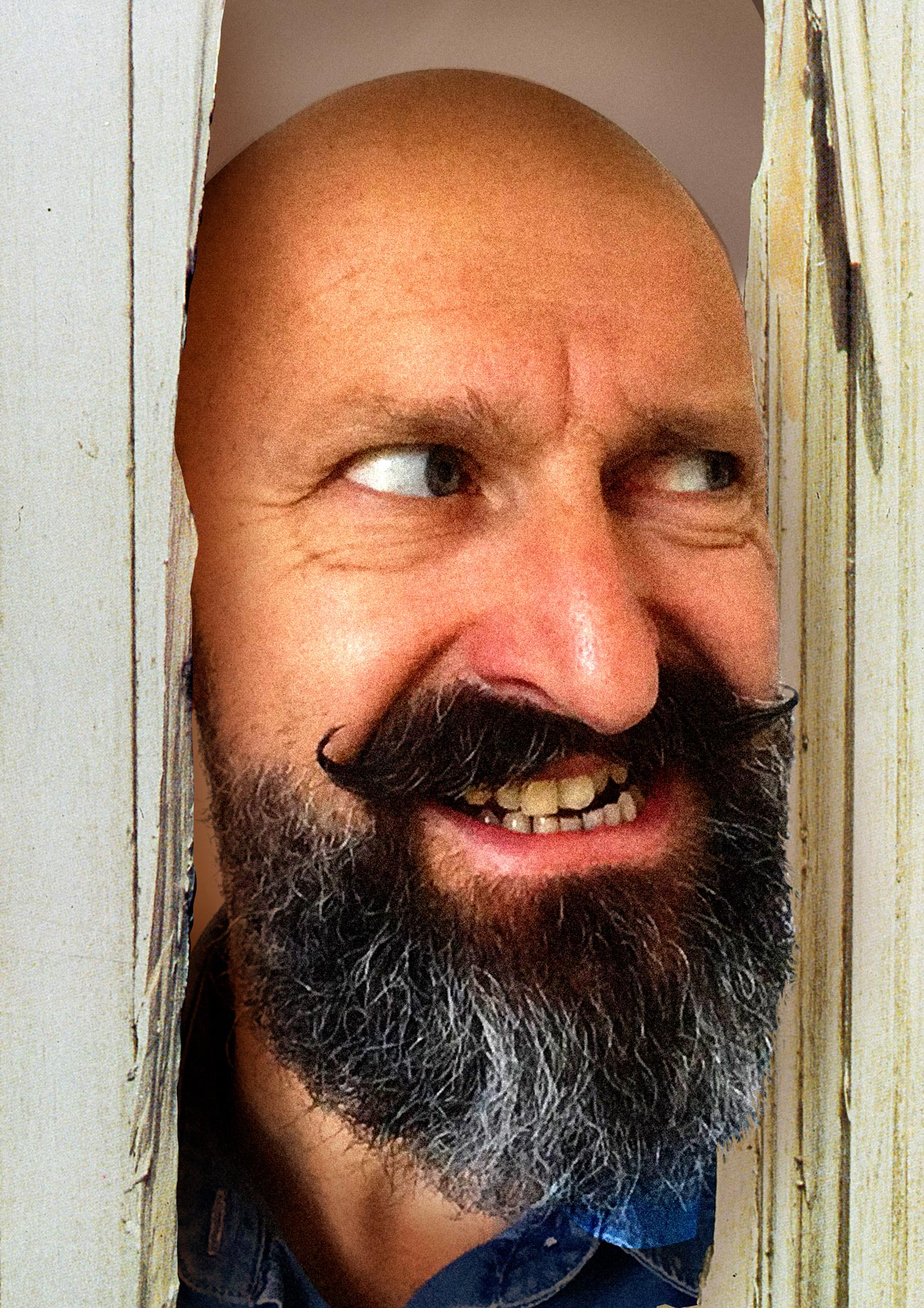
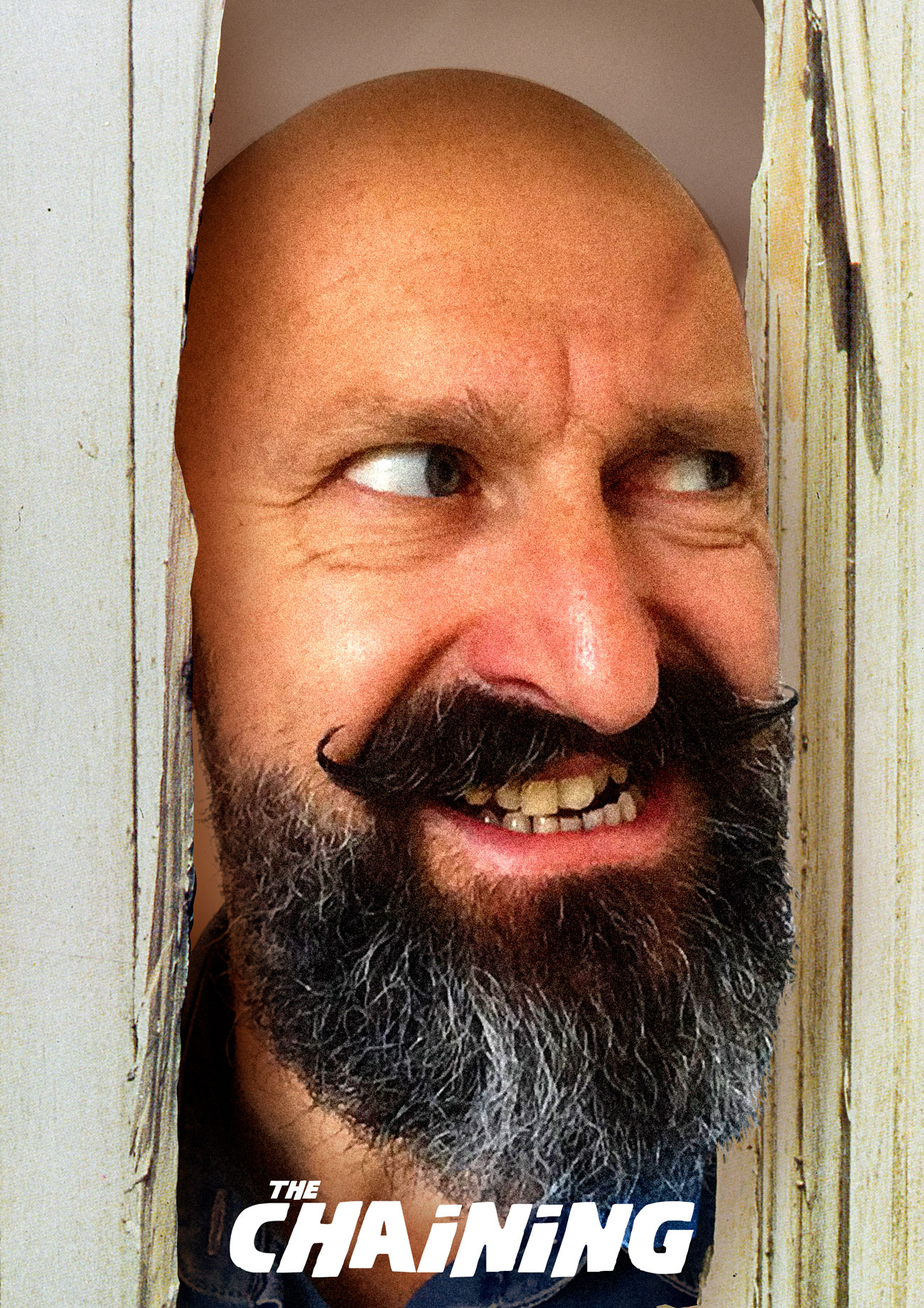
maj du nom de la team et close des images au clic

Changed region(s): [[0.2462, 0.093, 0.8308, 1.0], [0.8615, 0.186, 0.8923, 0.217]]

diff --git a/assets/build/js/main.js b/assets/build/js/main.js
@@ -94,7 +94,7 @@
 /***/ (function(module, __webpack_exports__, __webpack_require__) {
 
 "use strict";
-eval("__webpack_require__.r(__webpack_exports__);\n/* harmony import */ var core_js_modules_es_array_concat_js__WEBPACK_IMPORTED_MODULE_0__ = __webpack_require__(/*! core-js/modules/es.array.concat.js */ \"../core-js/modules/es.array.concat.js\");\n/* harmony import */ var core_js_modules_es_array_concat_js__WEBPACK_IMPORTED_MODULE_0___default = /*#__PURE__*/__webpack_require__.n(core_js_modules_es_array_concat_js__WEBPACK_IMPORTED_MODULE_0__);\n/* harmony import */ var core_js_modules_es_array_splice_js__WEBPACK_IMPORTED_MODULE_1__ = __webpack_require__(/*! core-js/modules/es.array.splice.js */ \"../core-js/modules/es.array.splice.js\");\n/* harmony import */ var core_js_modules_es_array_splice_js__WEBPACK_IMPORTED_MODULE_1___default = /*#__PURE__*/__webpack_require__.n(core_js_modules_es_array_splice_js__WEBPACK_IMPORTED_MODULE_1__);\n/* harmony import */ var core_js_modules_web_timers_js__WEBPACK_IMPORTED_MODULE_2__ = __webpack_require__(/*! core-js/modules/web.timers.js */ \"../core-js/modules/web.timers.js\");\n/* harmony import */ var core_js_modules_web_timers_js__WEBPACK_IMPORTED_MODULE_2___default = /*#__PURE__*/__webpack_require__.n(core_js_modules_web_timers_js__WEBPACK_IMPORTED_MODULE_2__);\n/* harmony import */ var _main_Player__WEBPACK_IMPORTED_MODULE_3__ = __webpack_require__(/*! ./main/Player */ \"../../src/javascript/src/main/Player.js\");\n\n\n\n\nvar playerContainer = document.getElementById('player');\nvar player = new _main_Player__WEBPACK_IMPORTED_MODULE_3__[\"Player\"](playerContainer);\nvar axe = document.getElementById('axe');\nvar content = document.querySelector('.Content');\nvar hoverAxe = false;\nvar btnAction = document.getElementById('trigger');\ndocument.addEventListener('pointermove', function (ev) {\n  var axeCoords = axe.getBoundingClientRect();\n\n  if (ev.clientX > axeCoords.left && ev.clientX < axeCoords.right && ev.clientY > axeCoords.top && ev.clientY < axeCoords.bottom) {\n    if (!hoverAxe) {\n      hoverAxe = true; //player.playVideo()\n    }\n  } else {\n    hoverAxe = false;\n  }\n});\ndocument.body.addEventListener('click', function () {\n  player.video.muted = false;\n});\nvar images = ['eric', 'matthieu', 'jack', 'overlook'];\nvar availableImages = [].concat(images);\nvar currentImage = null;\nbtnAction.addEventListener('click', function (ev) {\n  ev.preventDefault();\n  content.style.visibility = 'hidden';\n\n  if (currentImage) {\n    currentImage.classList.remove('visible');\n  }\n\n  currentImage = null;\n  var index = Math.min(availableImages.length - 1, Math.floor(Math.random() * availableImages.length)),\n      key = availableImages[index];\n  availableImages.splice(index, 1);\n\n  if (availableImages.length === 0) {\n    availableImages = [].concat(images);\n  }\n\n  if (key === 'jack') {\n    player.video.addEventListener('pause', function (ev) {\n      content.style.visibility = null;\n    });\n    player.playVideo();\n  } else {\n    currentImage = document.getElementById(key);\n    currentImage.classList.add('visible');\n    setTimeout(function () {\n      if (currentImage) {\n        currentImage.classList.remove('visible');\n      }\n\n      content.style.visibility = null;\n    }, 3000);\n  }\n});\n\n//# sourceURL=webpack:////Users/mrebillard/Sites/wr-shining/assets/src/javascript/src/main.js?");
+eval("__webpack_require__.r(__webpack_exports__);\n/* harmony import */ var core_js_modules_es_array_concat_js__WEBPACK_IMPORTED_MODULE_0__ = __webpack_require__(/*! core-js/modules/es.array.concat.js */ \"../core-js/modules/es.array.concat.js\");\n/* harmony import */ var core_js_modules_es_array_concat_js__WEBPACK_IMPORTED_MODULE_0___default = /*#__PURE__*/__webpack_require__.n(core_js_modules_es_array_concat_js__WEBPACK_IMPORTED_MODULE_0__);\n/* harmony import */ var core_js_modules_es_array_splice_js__WEBPACK_IMPORTED_MODULE_1__ = __webpack_require__(/*! core-js/modules/es.array.splice.js */ \"../core-js/modules/es.array.splice.js\");\n/* harmony import */ var core_js_modules_es_array_splice_js__WEBPACK_IMPORTED_MODULE_1___default = /*#__PURE__*/__webpack_require__.n(core_js_modules_es_array_splice_js__WEBPACK_IMPORTED_MODULE_1__);\n/* harmony import */ var _main_Player__WEBPACK_IMPORTED_MODULE_2__ = __webpack_require__(/*! ./main/Player */ \"../../src/javascript/src/main/Player.js\");\n\n\n\nvar playerContainer = document.getElementById('player');\nvar player = new _main_Player__WEBPACK_IMPORTED_MODULE_2__[\"Player\"](playerContainer);\nvar axe = document.getElementById('axe');\nvar content = document.querySelector('.Content');\nvar hoverAxe = false;\nvar btnAction = document.getElementById('trigger');\ndocument.addEventListener('pointermove', function (ev) {\n  var axeCoords = axe.getBoundingClientRect();\n\n  if (ev.clientX > axeCoords.left && ev.clientX < axeCoords.right && ev.clientY > axeCoords.top && ev.clientY < axeCoords.bottom) {\n    if (!hoverAxe) {\n      hoverAxe = true; //player.playVideo()\n    }\n  } else {\n    hoverAxe = false;\n  }\n});\ndocument.body.addEventListener('click', function () {\n  player.video.muted = false;\n});\nvar images = ['eric', 'matthieu', 'jack', 'overlook'];\nvar availableImages = [].concat(images);\nvar currentImage = null;\nbtnAction.addEventListener('click', function (ev) {\n  ev.preventDefault();\n  content.style.visibility = 'hidden';\n\n  if (currentImage) {\n    currentImage.classList.remove('visible');\n  }\n\n  currentImage = null;\n  var index = Math.min(availableImages.length - 1, Math.floor(Math.random() * availableImages.length)),\n      key = availableImages[index];\n  availableImages.splice(index, 1);\n\n  if (availableImages.length === 0) {\n    availableImages = [].concat(images);\n  }\n\n  if (key === 'jack') {\n    player.video.addEventListener('pause', function (ev) {\n      content.style.visibility = null;\n    });\n    player.playVideo();\n  } else {\n    currentImage = document.getElementById(key);\n    currentImage.classList.add('visible');\n    currentImage.addEventListener('click', function () {\n      currentImage.classList.remove('visible');\n      content.style.visibility = null;\n    });\n  }\n});\n\n//# sourceURL=webpack:////Users/mrebillard/Sites/wr-shining/assets/src/javascript/src/main.js?");
 
 /***/ }),
 
@@ -385,17 +385,6 @@ eval("var global = __webpack_require__(/*! ../internals/global */ \"../core-js/i
 /***/ (function(module, exports) {
 
 eval("module.exports = function (exec) {\n  try {\n    return !!exec();\n  } catch (error) {\n    return true;\n  }\n};\n\n\n//# sourceURL=webpack:///../core-js/internals/fails.js?");
-
-/***/ }),
-
-/***/ "../core-js/internals/function-apply.js":
-/*!**********************************************!*\
-  !*** ../core-js/internals/function-apply.js ***!
-  \**********************************************/
-/*! no static exports found */
-/***/ (function(module, exports, __webpack_require__) {
-
-eval("var NATIVE_BIND = __webpack_require__(/*! ../internals/function-bind-native */ \"../core-js/internals/function-bind-native.js\");\n\nvar FunctionPrototype = Function.prototype;\nvar apply = FunctionPrototype.apply;\nvar call = FunctionPrototype.call;\n\n// eslint-disable-next-line es-x/no-reflect -- safe\nmodule.exports = typeof Reflect == 'object' && Reflect.apply || (NATIVE_BIND ? call.bind(apply) : function () {\n  return call.apply(apply, arguments);\n});\n\n\n//# sourceURL=webpack:///../core-js/internals/function-apply.js?");
 
 /***/ }),
 
@@ -797,17 +786,6 @@ eval("var $TypeError = TypeError;\n\n// `RequireObjectCoercible` abstract operat
 
 /***/ }),
 
-/***/ "../core-js/internals/schedulers-fix.js":
-/*!**********************************************!*\
-  !*** ../core-js/internals/schedulers-fix.js ***!
-  \**********************************************/
-/*! no static exports found */
-/***/ (function(module, exports, __webpack_require__) {
-
-eval("var global = __webpack_require__(/*! ../internals/global */ \"../core-js/internals/global.js\");\nvar apply = __webpack_require__(/*! ../internals/function-apply */ \"../core-js/internals/function-apply.js\");\nvar isCallable = __webpack_require__(/*! ../internals/is-callable */ \"../core-js/internals/is-callable.js\");\nvar userAgent = __webpack_require__(/*! ../internals/engine-user-agent */ \"../core-js/internals/engine-user-agent.js\");\nvar arraySlice = __webpack_require__(/*! ../internals/array-slice */ \"../core-js/internals/array-slice.js\");\nvar validateArgumentsLength = __webpack_require__(/*! ../internals/validate-arguments-length */ \"../core-js/internals/validate-arguments-length.js\");\n\nvar MSIE = /MSIE .\\./.test(userAgent); // <- dirty ie9- check\nvar Function = global.Function;\n\nvar wrap = function (scheduler) {\n  return MSIE ? function (handler, timeout /* , ...arguments */) {\n    var boundArgs = validateArgumentsLength(arguments.length, 1) > 2;\n    var fn = isCallable(handler) ? handler : Function(handler);\n    var args = boundArgs ? arraySlice(arguments, 2) : undefined;\n    return scheduler(boundArgs ? function () {\n      apply(fn, this, args);\n    } : fn, timeout);\n  } : scheduler;\n};\n\n// ie9- setTimeout & setInterval additional parameters fix\n// https://html.spec.whatwg.org/multipage/timers-and-user-prompts.html#timers\nmodule.exports = {\n  // `setTimeout` method\n  // https://html.spec.whatwg.org/multipage/timers-and-user-prompts.html#dom-settimeout\n  setTimeout: wrap(global.setTimeout),\n  // `setInterval` method\n  // https://html.spec.whatwg.org/multipage/timers-and-user-prompts.html#dom-setinterval\n  setInterval: wrap(global.setInterval)\n};\n\n\n//# sourceURL=webpack:///../core-js/internals/schedulers-fix.js?");
-
-/***/ }),
-
 /***/ "../core-js/internals/shared-key.js":
 /*!******************************************!*\
   !*** ../core-js/internals/shared-key.js ***!
@@ -973,17 +951,6 @@ eval("var DESCRIPTORS = __webpack_require__(/*! ../internals/descriptors */ \"..
 
 /***/ }),
 
-/***/ "../core-js/internals/validate-arguments-length.js":
-/*!*********************************************************!*\
-  !*** ../core-js/internals/validate-arguments-length.js ***!
-  \*********************************************************/
-/*! no static exports found */
-/***/ (function(module, exports) {
-
-eval("var $TypeError = TypeError;\n\nmodule.exports = function (passed, required) {\n  if (passed < required) throw $TypeError('Not enough arguments');\n  return passed;\n};\n\n\n//# sourceURL=webpack:///../core-js/internals/validate-arguments-length.js?");
-
-/***/ }),
-
 /***/ "../core-js/internals/well-known-symbol.js":
 /*!*************************************************!*\
   !*** ../core-js/internals/well-known-symbol.js ***!
@@ -1038,39 +1005,6 @@ eval("// TODO: Remove from `core-js@4`\nvar $ = __webpack_require__(/*! ../inter
 /***/ (function(module, exports, __webpack_require__) {
 
 eval("var $ = __webpack_require__(/*! ../internals/export */ \"../core-js/internals/export.js\");\nvar DESCRIPTORS = __webpack_require__(/*! ../internals/descriptors */ \"../core-js/internals/descriptors.js\");\nvar defineProperty = __webpack_require__(/*! ../internals/object-define-property */ \"../core-js/internals/object-define-property.js\").f;\n\n// `Object.defineProperty` method\n// https://tc39.es/ecma262/#sec-object.defineproperty\n// eslint-disable-next-line es-x/no-object-defineproperty -- safe\n$({ target: 'Object', stat: true, forced: Object.defineProperty !== defineProperty, sham: !DESCRIPTORS }, {\n  defineProperty: defineProperty\n});\n\n\n//# sourceURL=webpack:///../core-js/modules/es.object.define-property.js?");
-
-/***/ }),
-
-/***/ "../core-js/modules/web.set-interval.js":
-/*!**********************************************!*\
-  !*** ../core-js/modules/web.set-interval.js ***!
-  \**********************************************/
-/*! no static exports found */
-/***/ (function(module, exports, __webpack_require__) {
-
-eval("var $ = __webpack_require__(/*! ../internals/export */ \"../core-js/internals/export.js\");\nvar global = __webpack_require__(/*! ../internals/global */ \"../core-js/internals/global.js\");\nvar setInterval = __webpack_require__(/*! ../internals/schedulers-fix */ \"../core-js/internals/schedulers-fix.js\").setInterval;\n\n// ie9- setInterval additional parameters fix\n// https://html.spec.whatwg.org/multipage/timers-and-user-prompts.html#dom-setinterval\n$({ global: true, bind: true, forced: global.setInterval !== setInterval }, {\n  setInterval: setInterval\n});\n\n\n//# sourceURL=webpack:///../core-js/modules/web.set-interval.js?");
-
-/***/ }),
-
-/***/ "../core-js/modules/web.set-timeout.js":
-/*!*********************************************!*\
-  !*** ../core-js/modules/web.set-timeout.js ***!
-  \*********************************************/
-/*! no static exports found */
-/***/ (function(module, exports, __webpack_require__) {
-
-eval("var $ = __webpack_require__(/*! ../internals/export */ \"../core-js/internals/export.js\");\nvar global = __webpack_require__(/*! ../internals/global */ \"../core-js/internals/global.js\");\nvar setTimeout = __webpack_require__(/*! ../internals/schedulers-fix */ \"../core-js/internals/schedulers-fix.js\").setTimeout;\n\n// ie9- setTimeout additional parameters fix\n// https://html.spec.whatwg.org/multipage/timers-and-user-prompts.html#dom-settimeout\n$({ global: true, bind: true, forced: global.setTimeout !== setTimeout }, {\n  setTimeout: setTimeout\n});\n\n\n//# sourceURL=webpack:///../core-js/modules/web.set-timeout.js?");
-
-/***/ }),
-
-/***/ "../core-js/modules/web.timers.js":
-/*!****************************************!*\
-  !*** ../core-js/modules/web.timers.js ***!
-  \****************************************/
-/*! no static exports found */
-/***/ (function(module, exports, __webpack_require__) {
-
-eval("// TODO: Remove this module from `core-js@4` since it's split to modules listed below\n__webpack_require__(/*! ../modules/web.set-interval */ \"../core-js/modules/web.set-interval.js\");\n__webpack_require__(/*! ../modules/web.set-timeout */ \"../core-js/modules/web.set-timeout.js\");\n\n\n//# sourceURL=webpack:///../core-js/modules/web.timers.js?");
 
 /***/ }),
 

diff --git a/index.html b/index.html
@@ -5,9 +5,9 @@
     <meta name="viewport"
           content="width=device-width, user-scalable=no, initial-scale=1.0, maximum-scale=1.0, minimum-scale=1.0">
     <meta http-equiv="X-UA-Compatible" content="ie=edge">
-    <title>The Shining Ax</title>
+    <title>The Chaining</title>
     <link rel="shortcut icon" type="image/x-icon" href="favicon.ico">
-    <link rel="stylesheet" href="./assets/build/css/screen.css?v=3">
+    <link rel="stylesheet" href="./assets/build/css/screen.css?v=4">
 </head>
 <body>
 <div class="Wrapper">
@@ -16,16 +16,18 @@
     </div>
     <div class="Wrapper-pattern"></div>
     <div class="Player">
-        <img class="full-image" id="eric" src="./assets/build/img/commons/door-eric.jpg" alt="">
-        <img class="full-image" id="matthieu" src="./assets/build/img/commons/door-matthieu.jpg" alt="">
-        <img class="full-image" id="overlook" src="./assets/build/img/commons/overlook.jpg" alt="">
+        <img class="full-image" id="eric" src="./assets/build/img/commons/door-eric.jpg?v=4" alt="">
+        <img class="full-image" id="matthieu" src="./assets/build/img/commons/door-matthieu.jpg?v=4" alt="">
+        <img class="full-image" id="overlook" src="./assets/build/img/commons/overlook.jpg?v=4" alt="">
         <video muted id="player" data-yt2html5="https://www.youtube.com/watch?v=fLEdpDpoTTA"></video>
     </div>
     <div class="Content">
-        <h1 class="Content-name"><span>The</span> Shining Ax</h1>
+        <h1 class="Content-name">
+            <img src="./assets/build/img/commons/chaining-title.png" alt="">
+        </h1>
         <button class="Content-trigger" id="trigger">Qui sera le vainqueur ?</button>
     </div>
 </div>
-<script src="./assets/build/js/main.js?v=3"></script>
+<script src="./assets/build/js/main.js?v=4"></script>
 </body>
 </html>

diff --git a/assets/src/scss/screen.scss b/assets/src/scss/screen.scss
@@ -74,25 +74,29 @@ $color-orange: #e25716;
     align-items: center;
 
     &-name {
+        position: relative;
+        z-index: 1;
+
         text-align: center;
         font-size: 8vw;
 
         animation: vibes 7s steps(1) infinite;
 
-        span {
-            font-size: 6vw;
+        img {
             display: block;
-            margin-bottom: 0.3em;
+            max-width: 70vw;
         }
     }
 
     &-trigger {
+        position: relative;
+        z-index: 2;
         appearance: none;
         background-color: $color-orange;
         border: 10px solid $color-red;
-        font-size: 3vw;
+        font-size: clamp(0px, 3vw, 30px);
         font-family: 'Nosifer', cursive;
-        padding: 20px;
+        padding: 1em;
         margin-top: 50px;
         cursor: pointer;
 
@@ -133,6 +137,8 @@ $video-ratio: calc((360% / 640) * 100);
         height: 100%;
         object-fit: contain;
         visibility: hidden;
+        pointer-events: all;
+        cursor: zoom-out;
 
         &.visible {
             visibility: visible;

diff --git a/assets/build/css/screen.css b/assets/build/css/screen.css
@@ -156,25 +156,28 @@ body {
           align-items: center;
 }
 .Content-name {
+  position: relative;
+  z-index: 1;
   text-align: center;
   font-size: 8vw;
   -webkit-animation: vibes 7s steps(1) infinite;
           animation: vibes 7s steps(1) infinite;
 }
-.Content-name span {
-  font-size: 6vw;
+.Content-name img {
   display: block;
-  margin-bottom: 0.3em;
+  max-width: 70vw;
 }
 .Content-trigger {
+  position: relative;
+  z-index: 2;
   -webkit-appearance: none;
      -moz-appearance: none;
           appearance: none;
   background-color: #e25716;
   border: 10px solid #a62329;
-  font-size: 3vw;
+  font-size: clamp(0px, 3vw, 30px);
   font-family: "Nosifer", cursive;
-  padding: 20px;
+  padding: 1em;
   margin-top: 50px;
   cursor: pointer;
 }
@@ -212,6 +215,9 @@ body {
   -o-object-fit: contain;
      object-fit: contain;
   visibility: hidden;
+  pointer-events: all;
+  cursor: -webkit-zoom-out;
+  cursor: zoom-out;
 }
 .Player .full-image.visible {
   visibility: visible;

diff --git a/assets/src/javascript/src/main.js b/assets/src/javascript/src/main.js
@@ -52,11 +52,9 @@ btnAction.addEventListener('click', ev => {
     } else {
         currentImage = document.getElementById(key)
         currentImage.classList.add('visible')
-        setTimeout(() => {
-            if(currentImage) {
-                currentImage.classList.remove('visible')
-            }
+        currentImage.addEventListener('click', () => {
+            currentImage.classList.remove('visible')
             content.style.visibility = null
-        }, 3000)
+        })
     }
 })
